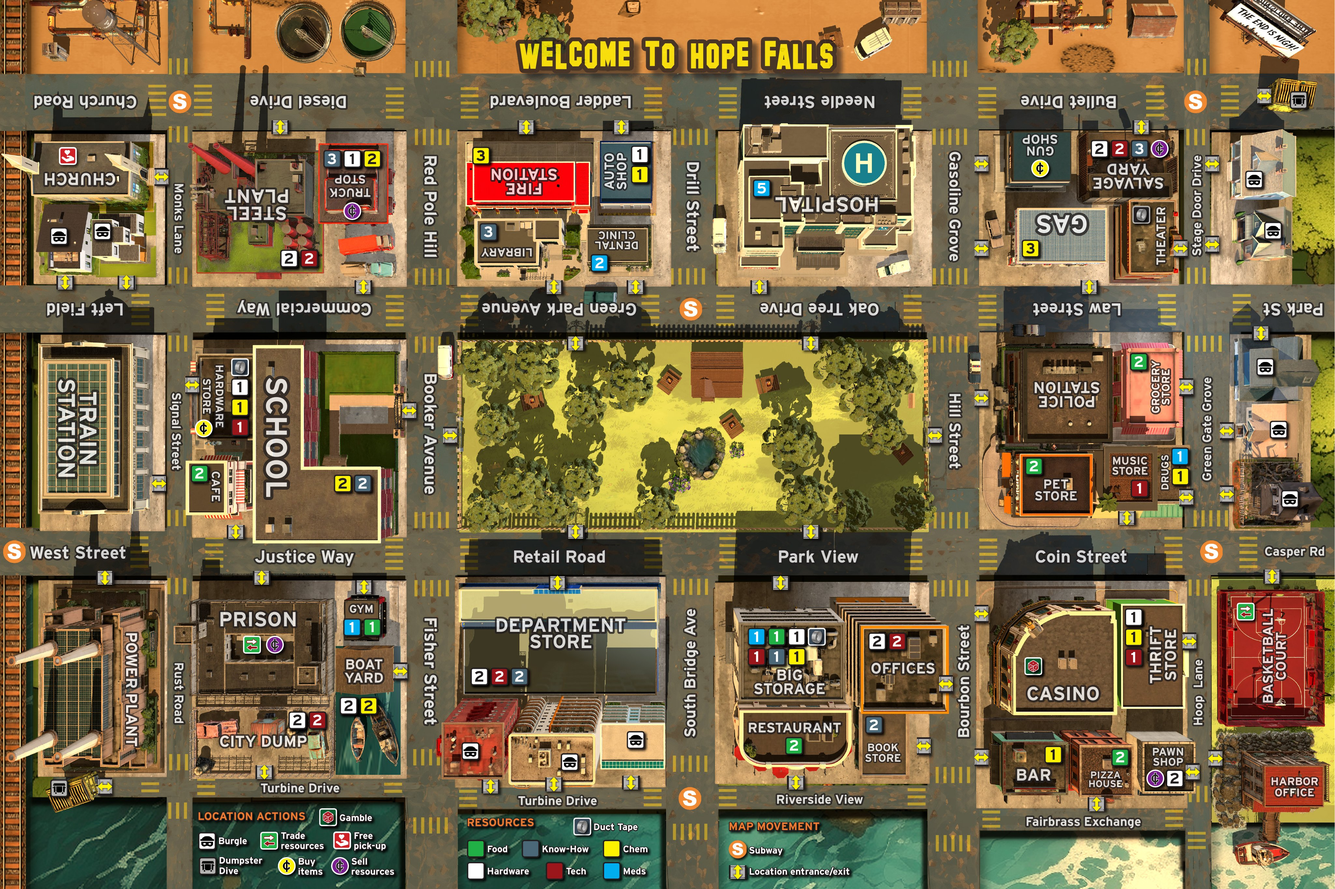
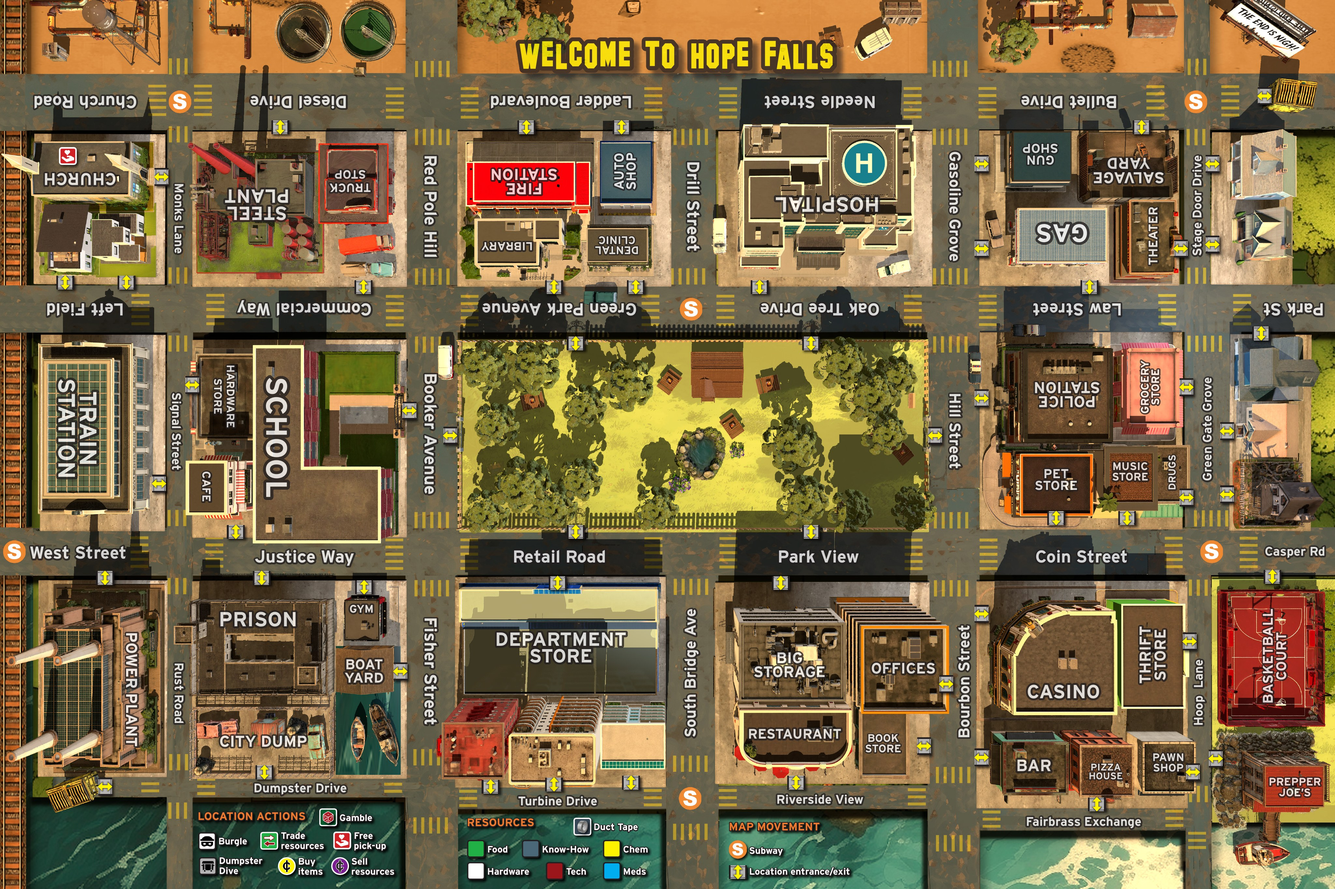
v1.159: new board artwork (resource numbers removed)
Claude-Session: https://claude.ai/code/session_019xH1rrSMyvmZdTk1mqi99f

diff --git a/src/main.js b/src/main.js
@@ -45,7 +45,7 @@ async function boot() {
   const rd = n => fetch('data/' + n + '.json').then(r => r.json());
   const [board, items, news, preppers, config, adjacent] = await Promise.all(['board', 'items', 'news', 'preppers', 'config', 'adjacent'].map(rd));
   D = E.init({ board, items, news, preppers, config, adjacent });
-  boardImg = await img('assets/board/board.jpg'); icons.coin = await img('assets/counters/prepcoin.webp');
+  boardImg = await img('assets/board/board.jpg?v=159'); icons.coin = await img('assets/counters/prepcoin.webp');
   for (const [k, f] of Object.entries(ICON)) icons[k] = await img(`assets/counters/${f}.webp`);
   $('#verL').textContent = VERSION; buildSeats(); bindLobby();
 }

diff --git a/src/version.js b/src/version.js
@@ -1,2 +1,2 @@
 // Bump this on every change; shown next to the APOC title.
-export const VERSION = 'v1.158';
+export const VERSION = 'v1.159';

diff --git a/RULES_LOG.md b/RULES_LOG.md
@@ -177,3 +177,4 @@ Post-APOC (Mission Packs), End Times cards, and any event or item whose effect i
 - Test-build tool: the top menu bar shrinks on smaller laptop screens so it stays on one line. (v1.156)
 - Test-build tool: the turn box text and button are centred in the panel. (v1.157)
 - Test-build tool: the little white count numbers on the board piles were removed again (too distracting); the pool and player mats still show counts. (v1.158)
+- Board artwork replaced with Tim's revised board PDF (printed resource numbers removed; same size and layout, board spaces unchanged). (v1.159)
